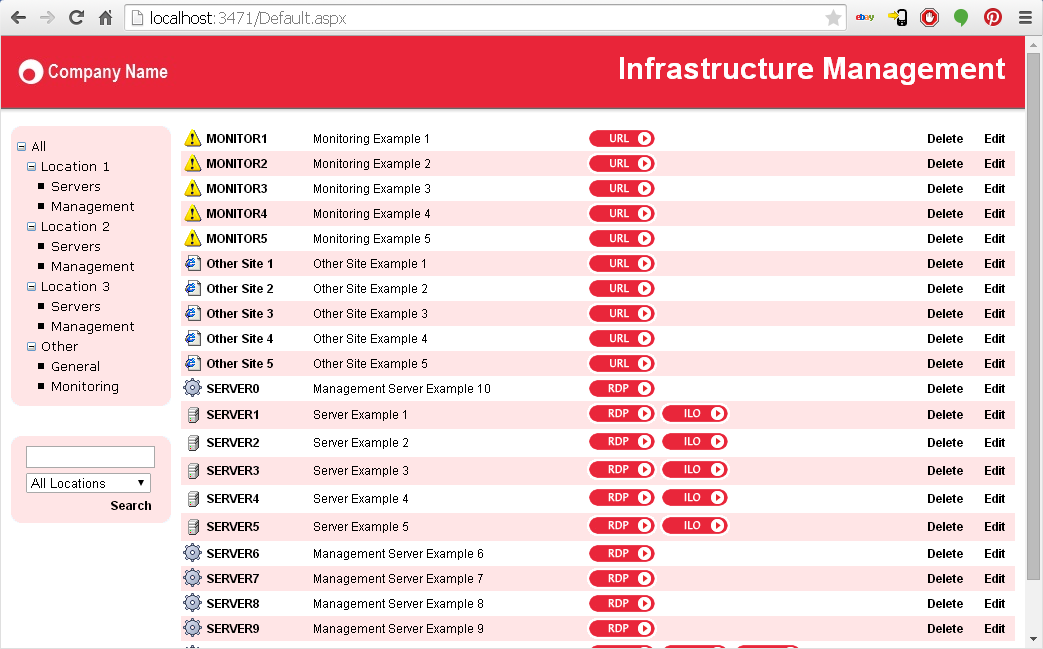
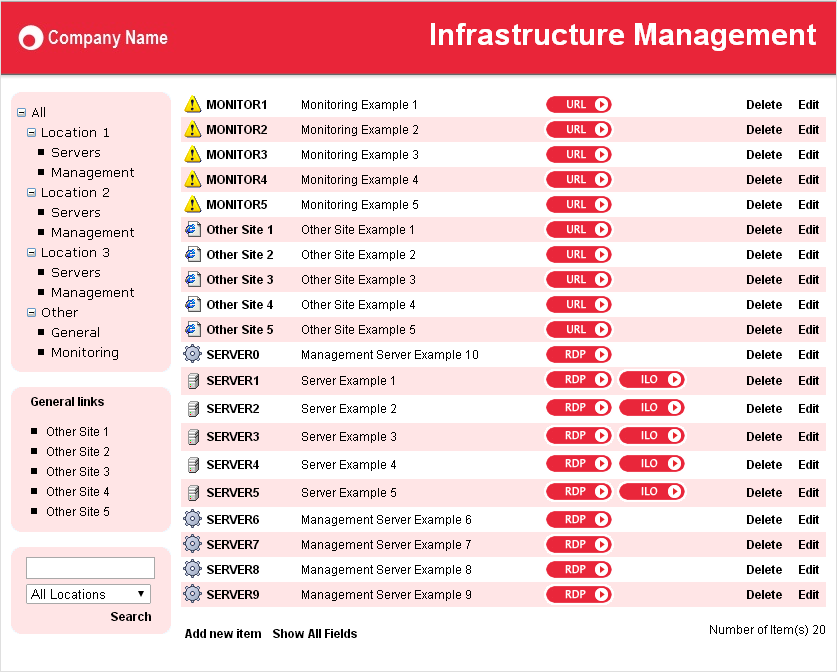
first release

diff --git a/Default.aspx.cs b/Default.aspx.cs
@@ -365,10 +365,13 @@ namespace AllanStevens.InfrastructureManagement
 
         string BuildQuickLinks()
         {
+            var location = "Other";
+            var catergory = "General";
+
             StringBuilder rtn = new StringBuilder();
 
             XmlDocument myXMLDoc = this.XmlDataSourceServerLists.GetXmlDocument();
-            XmlNodeList nodesToDisplay = myXMLDoc.SelectNodes("/list/item[@location='Other'][@catergory='Monitoring']");
+            XmlNodeList nodesToDisplay = myXMLDoc.SelectNodes("/list/item[@location='" + location + "'][@catergory='" + catergory + "']");
             foreach (XmlNode node in nodesToDisplay)
             {
                 rtn.AppendLine("<a class=\"usefullinks\" href=\"" + node.Attributes["url"].Value.ToString() + "\" target=\"_blank\" >" + node.Attributes["name"].Value.ToString() + "</a>");
@@ -379,7 +382,7 @@ namespace AllanStevens.InfrastructureManagement
             else
             {
                 return "<div id=\"sidemenu\"><div id=\"menu\"><div class=\"box_tl\"></div><div class=\"box_tr\"></div>" +
-                        "<div class=\"box_title\">Monitoring</div>" +
+                        "<div class=\"box_title\">" + catergory + " links</div>" +
                         "<div class=\"box_content\">" + rtn.ToString() + "</div>" +
                         "<div class=\"box_bl\"></div><div class=\"box_br\"></div></div>";
             }

diff --git a/README.md b/README.md
@@ -1,0 +1,7 @@
+# Infrastructure Management
+
+ASP.NET Application that can be used to list resources (Servers, Websites, etc) within an operations team. Resources can have links to RDP, ILO and Web access. Lightweight and fast. No database, uses XML for data.
+
+Requires .net framework 2.0
+
+![Alt text](/screenshot01.png?raw=true "Screen Shot")
